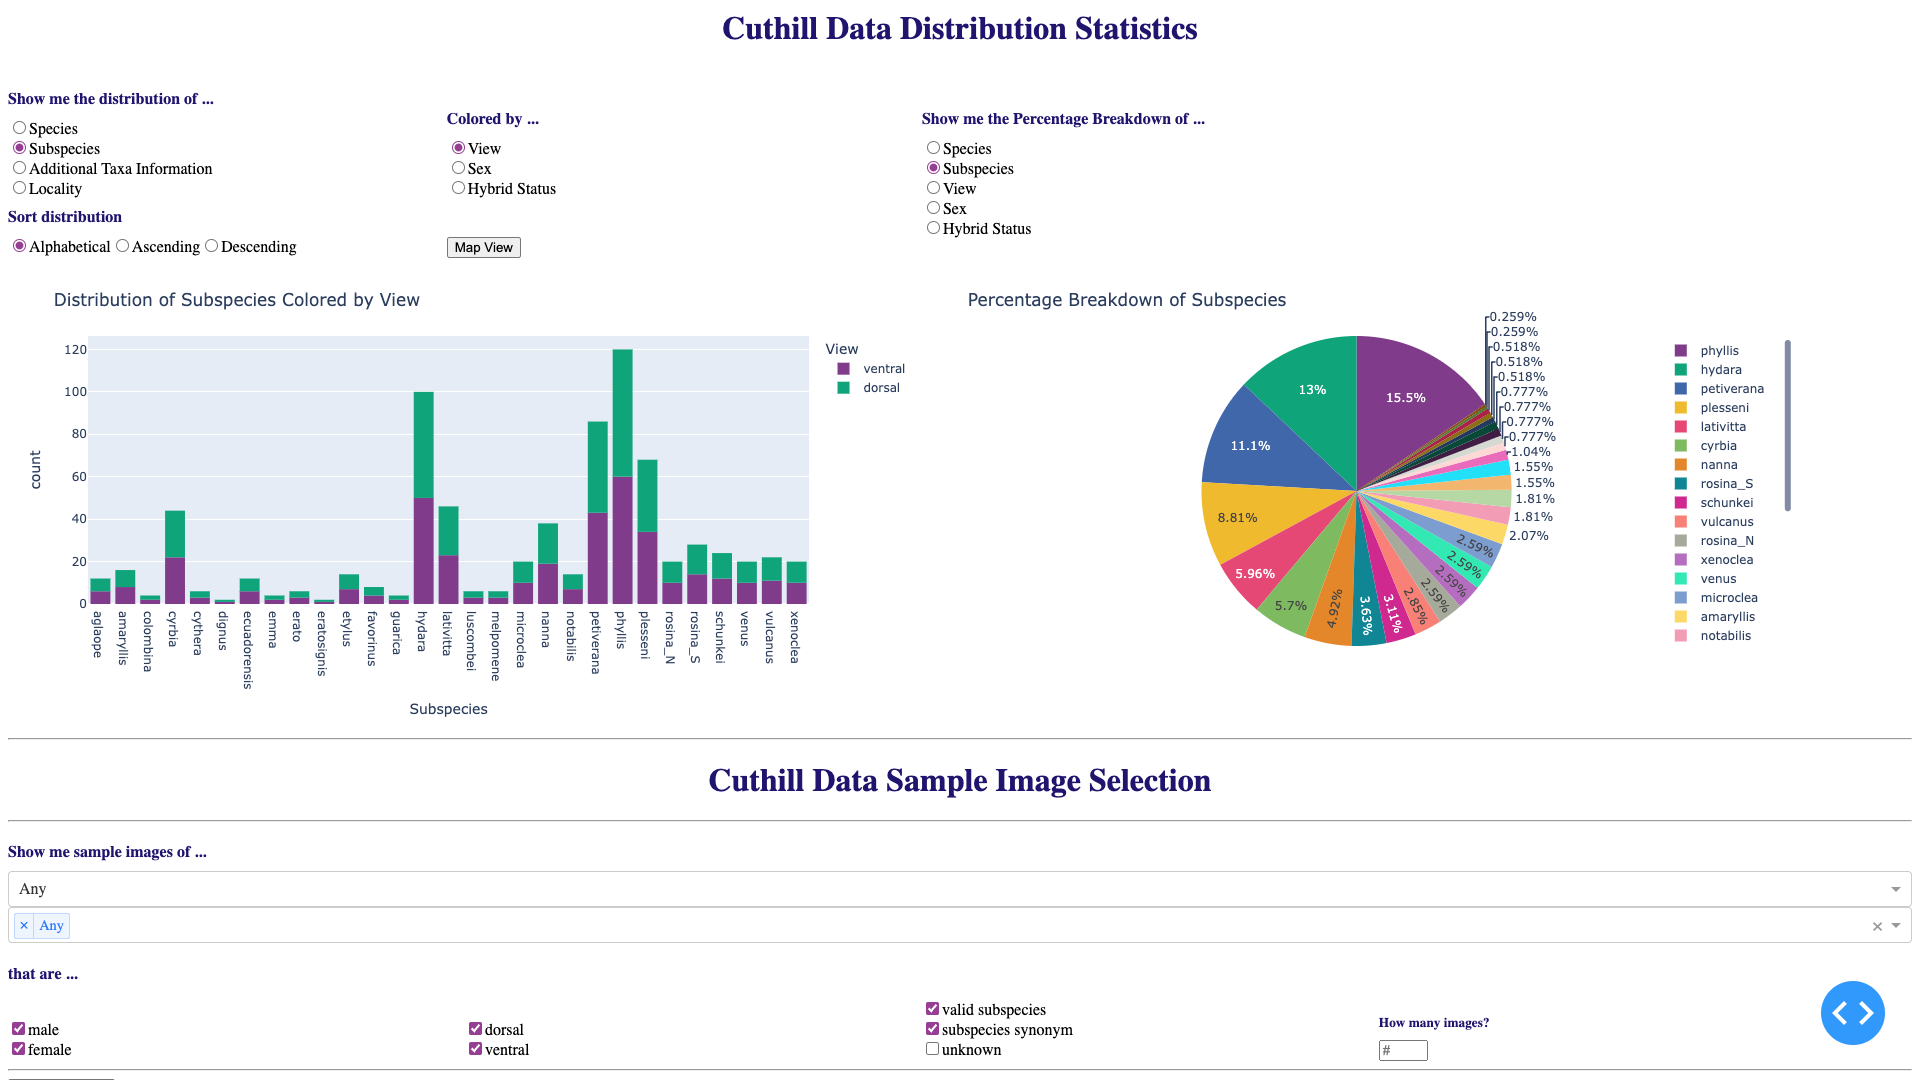
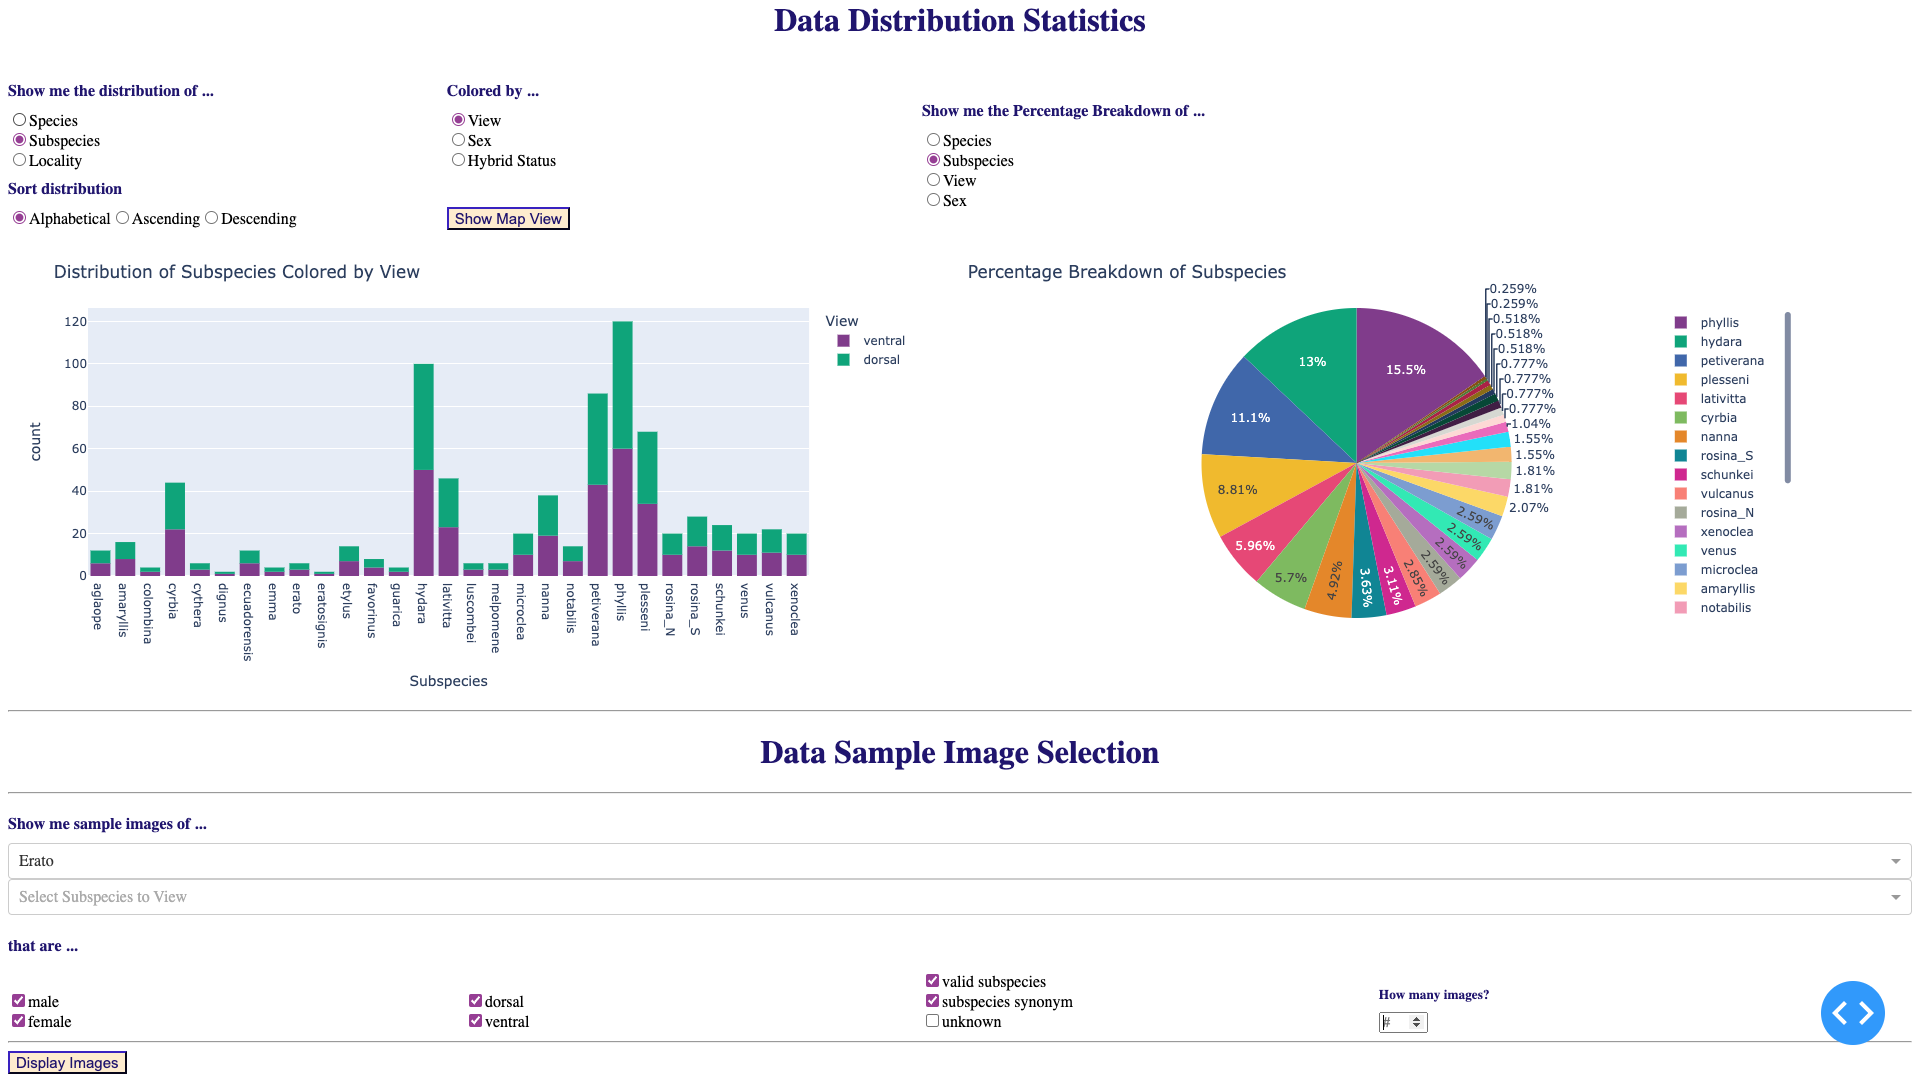
Updated Dashboard buttons to match Upload button and replaced preview images.

diff --git a/components/divs.py b/components/divs.py
@@ -5,6 +5,10 @@ H1_STYLE = {'textAlign': 'center', 'color': 'MidnightBlue'}
 H4_STYLE = {'color': 'MidnightBlue', 'margin-bottom' : 10}
 HALF_DIV_STYLE = {'width': '48%', 'display': 'inline-block'}
 QUARTER_DIV_STYLE = {'width': '24%', 'display': 'inline-block'}
+BUTTON_STYLE = {'color': 'MidnightBlue', 
+                'background-color': 'BlanchedAlmond', 
+                'border-color': 'MidnightBlue',
+                'font-size': '15px'}
 ERROR_STYLE = {'textAlign': 'center', 'color': 'FireBrick', 'margin-bottom' : 10}
 SORT_LIST = [{'label': 'Alphabetical', 'value': 'alpha'},
                 {'label': 'Ascending', 'value': 'sum ascending'},
@@ -67,6 +71,7 @@ def get_hist_div(mapping):
         button_div = html.Div([
             # Button to switch to Map View
             html.Button("Show Map View",
+                        style = BUTTON_STYLE,
                         id = 'dist-view-btn',
                         n_clicks = 0)
                  ], style = HALF_DIV_STYLE
@@ -126,6 +131,7 @@ def get_map_div():
         html.Div([
         # Distribution View Type Button
         html.Button("Show Histogram",
+                    style = BUTTON_STYLE,
                     id = 'dist-view-btn',
                     n_clicks = 0)
                 ], style = HALF_DIV_STYLE
@@ -207,6 +213,7 @@ def get_img_div(df, all_species, img_url):
 
                     # Button to activate the callback
                     html.Button('Display Images',
+                                style = BUTTON_STYLE,
                                 id = 'display-img',
                                 n_clicks = 0),
 
